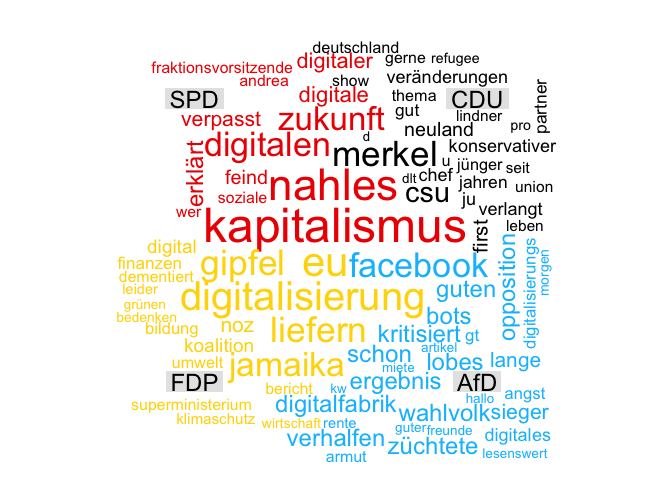
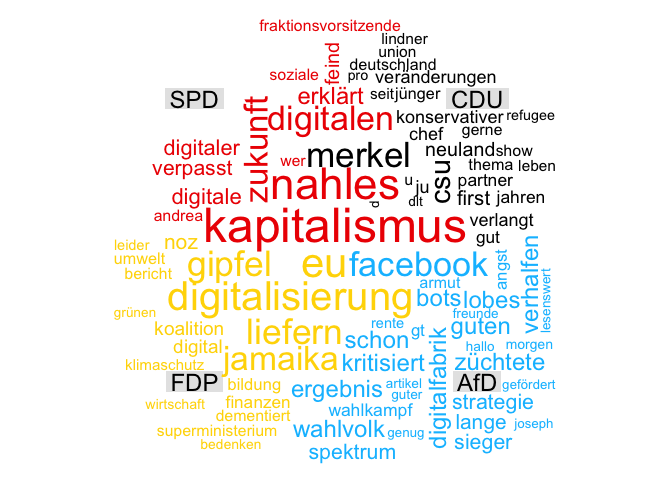
new

Changed region(s): [[0.1562, 0.0312, 0.8438, 0.9688]]

diff --git a/01_07_10.md b/01_07_10.md
@@ -31,8 +31,8 @@ Anzahl gesamter Tweets im Zeitraum:
 </tbody>
 </table>
 <!--/html_preserve-->
-Wie prominent wurde das Thema im betrachteten Zeitraum besprochen?
-------------------------------------------------------------------
+Wie prominent wurde "Digitalisierung" im Vergleich zu anderen Themen besprochen?
+--------------------------------------------------------------------------------
 
 ![](01_07_10_files/figure-markdown_github-ascii_identifiers/unnamed-chunk-7-1.png)
 
